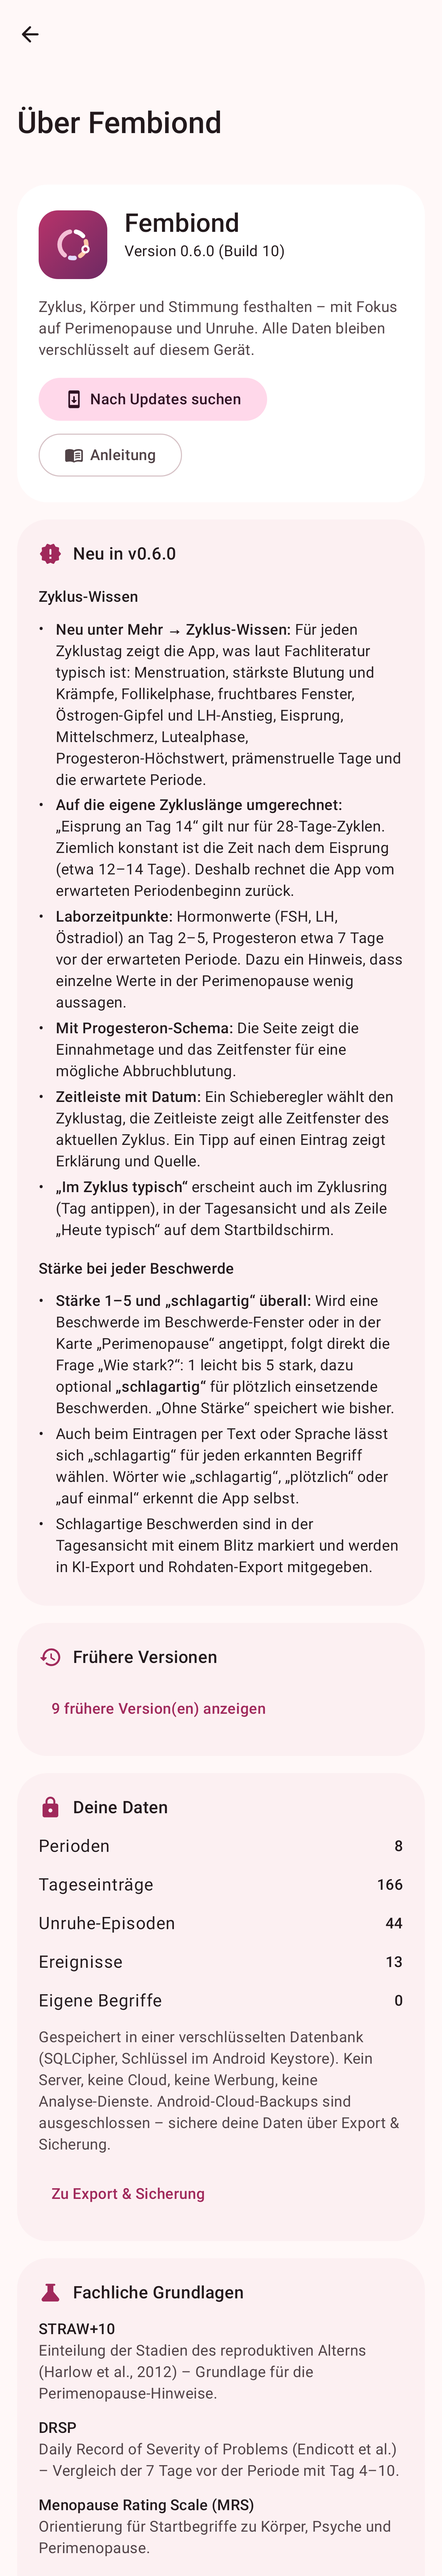
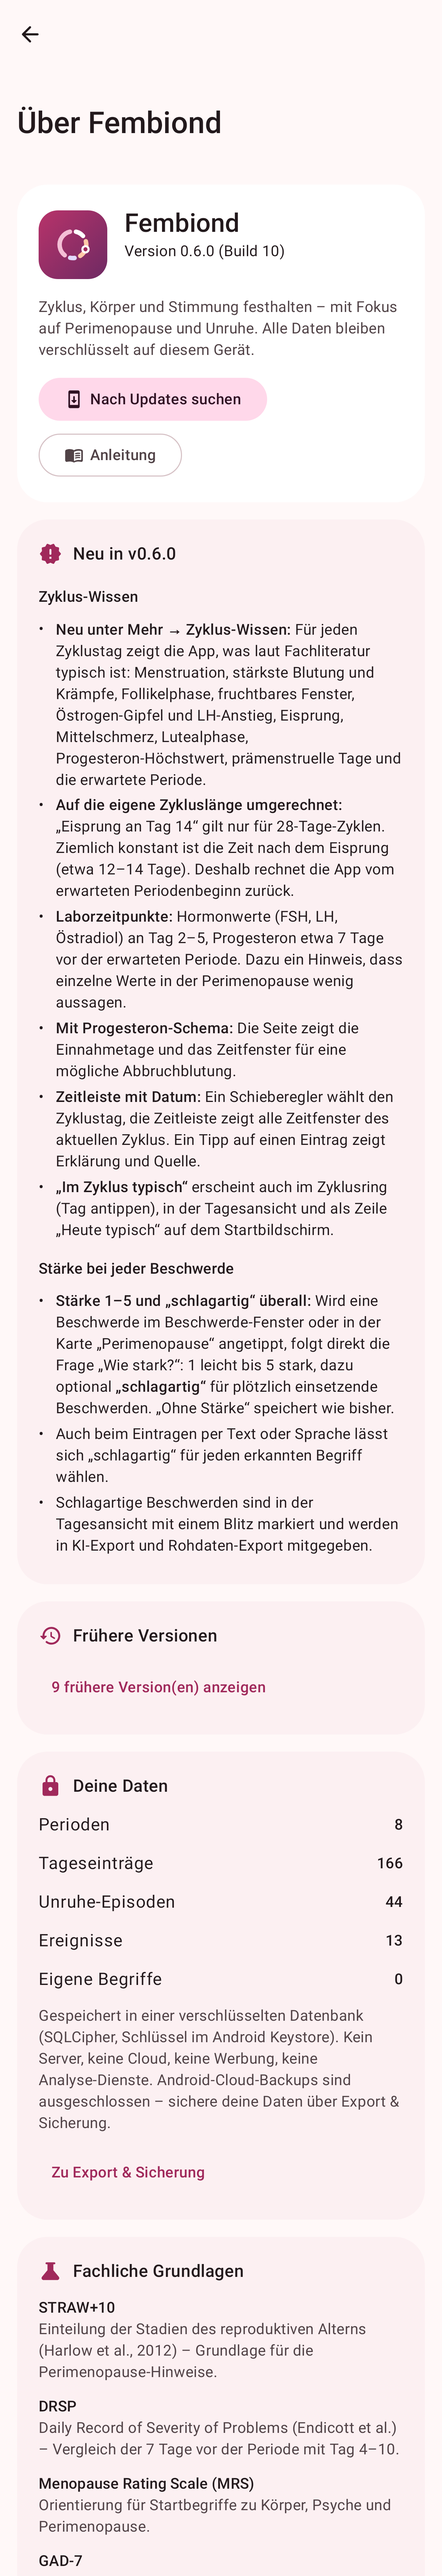
Spracheingabe: keine automatische Erkennung von „schlagartig“
Claude-Session: https://claude.ai/code/session_016ur4THD3drYkvcUc6fCqDM

diff --git a/app/src/main/java/de/fembiond/app/domain/TermParser.kt b/app/src/main/java/de/fembiond/app/domain/TermParser.kt
@@ -17,8 +17,6 @@ data class ParsedTerm(
     val intensity: Int?,
     val valence: Valence?,
     val matchedText: String,
-    /** Im selben Satzteil als „schlagartig“/„plötzlich“ beschrieben. */
-    val sudden: Boolean = false,
 )
 
 data class ParseResult(
@@ -88,16 +86,13 @@ class TermParser(vocabulary: List<VocabItem>) {
             val valence = if (h.item.category == Category.LIFE) {
                 valenceHint(folded, segOf, segment) ?: h.item.valence
             } else null
-            val sudden = folded.indices.any { k ->
-                segOf[k] == segment && (folded[k] in SUDDEN_WORDS || (folded[k] == "auf" && folded.getOrNull(k + 1) == "einmal"))
-            }
             val text = words.subList(h.start, h.end).joinToString(" ")
             val existing = result.indexOfFirst { it.label == h.item.label && it.category == h.item.category }
             if (existing >= 0) {
                 val e = result[existing]
-                result[existing] = e.copy(intensity = maxOfNullable(e.intensity, intensity), sudden = e.sudden || sudden)
+                result[existing] = e.copy(intensity = maxOfNullable(e.intensity, intensity))
             } else {
-                result += ParsedTerm(h.item.label, h.item.category, intensity, valence, text, sudden)
+                result += ParsedTerm(h.item.label, h.item.category, intensity, valence, text)
             }
         }
 
@@ -110,7 +105,7 @@ class TermParser(vocabulary: List<VocabItem>) {
         }
         for (k in words.indices) {
             val w = folded[k]
-            val isContent = !consumed[k] && w.length >= 4 && w !in STOP && w !in INTENSITY_WORDS && w !in SUDDEN_WORDS && w != "einmal" && w !in NUMBER_WORDS &&
+            val isContent = !consumed[k] && w.length >= 4 && w !in STOP && w !in INTENSITY_WORDS && w !in NUMBER_WORDS &&
                 w !in NEGATIONS && w.none { it.isDigit() }
             if (isContent && (run.isEmpty() || runSeg == segOf[k])) {
                 run += words[k]; runSeg = segOf[k]
@@ -192,8 +187,6 @@ class TermParser(vocabulary: List<VocabItem>) {
             Regex("[\\p{L}\\p{N}]+").findAll(s.lowercase()).map { it.value }.toList()
 
         /** Kleinschreibung, Umlaute vereinfachen – macht Tippfehler und Spracheingabe robuster. */
-        val SUDDEN_WORDS = setOf("schlagartig", "schlagartige", "schlagartiger", "plotzlich", "plotzliche", "plotzlicher", "abrupt", "abrupte", "unvermittelt")
-
         fun fold(s: String): String = s.lowercase()
             .replace("ä", "a").replace("ö", "o").replace("ü", "u").replace("ß", "ss")
 

diff --git a/app/src/main/java/de/fembiond/app/ui/screens/GuideScreen.kt b/app/src/main/java/de/fembiond/app/ui/screens/GuideScreen.kt
@@ -115,7 +115,7 @@ object Guide {
 - Tippe auf **Wie geht es dir gerade?** und schreibe oder sprich frei, z. B. „ziemlich müde, Kopfweh, innere Unruhe Stärke 3“.
 - Die App erkennt Begriffe automatisch und ordnet sie Kategorien zu – auch Umgangssprache („Kopfweh“), Tippfehler und Verneinungen („keine Kopfschmerzen“).
 - Wörter wie „leicht“, „ziemlich“, „extrem“ oder „Stärke drei“ setzen die **Intensität 1–5**. Du kannst sie unter „Erfasst – bitte prüfen“ anpassen.
-- Für plötzlich einsetzende Beschwerden gibt es **„schlagartig“**. Die App erkennt es auch selbst an Wörtern wie „schlagartig“, „plötzlich“ oder „auf einmal“.
+- Für plötzlich einsetzende Beschwerden gibt es **„schlagartig“** – bitte selbst antippen.
 - Bei Ein-Tipp-Beschwerden (Plus-Menü, Karte Perimenopause) fragt die App nach dem Antippen direkt „Wie stark?“. „Ohne Stärke“ speichert sofort.
 - **Nicht erkannte Wörter** antippen, um sie als eigenen Begriff zu speichern oder einem vorhandenen zuzuordnen. Die App merkt sich das.
 - Unter den Kategorien findest du Vorschläge als Chips – häufig und zuletzt Genutztes steht vorne.

diff --git a/app/src/main/java/de/fembiond/app/ui/screens/EntryScreen.kt b/app/src/main/java/de/fembiond/app/ui/screens/EntryScreen.kt
@@ -105,10 +105,10 @@ fun EntryScreen(vm: AppViewModel, data: AppData, nav: NavController, day: LocalD
             if (k in rejected) return@forEach
             val existing = selections[k]
             if (existing == null) {
-                selections[k] = Selection(t.label, t.category, t.intensity, t.valence, t.sudden)
+                selections[k] = Selection(t.label, t.category, t.intensity, t.valence)
                 autoKeys.add(k)
             } else if (k in autoKeys) {
-                selections[k] = existing.copy(intensity = t.intensity ?: existing.intensity, valence = t.valence ?: existing.valence, sudden = t.sudden || existing.sudden)
+                selections[k] = existing.copy(intensity = t.intensity ?: existing.intensity, valence = t.valence ?: existing.valence)
             }
         }
         unknown = result.unknown

diff --git a/app/src/test/java/de/fembiond/app/domain/TermParserTest.kt b/app/src/test/java/de/fembiond/app/domain/TermParserTest.kt
@@ -85,11 +85,4 @@ class TermParserTest {
         assertTrue(TermRanking.score(10, 1, false) > TermRanking.score(10, 120, false))
         assertTrue(TermRanking.score(5, 1, false) > TermRanking.score(0, null, true))
     }
-
-    @Test
-    fun detectsSuddenOnset() {
-        val r = parser.parse("Schlagartig starke Kopfschmerzen, außerdem müde")
-        assertTrue(r.terms.first { it.label == "Kopfschmerzen" }.sudden)
-        assertFalse(r.terms.first { it.label == "müde" }.sudden)
-    }
 }

diff --git a/app/src/main/assets/releases/v0.6.0.md b/app/src/main/assets/releases/v0.6.0.md
@@ -10,5 +10,5 @@
 ## Stärke bei jeder Beschwerde
 
 - **Stärke 1–5 und „schlagartig“ überall:** Wird eine Beschwerde im Beschwerde-Fenster oder in der Karte „Perimenopause“ angetippt, folgt direkt die Frage „Wie stark?“: 1 leicht bis 5 stark, dazu optional **„schlagartig“** für plötzlich einsetzende Beschwerden. „Ohne Stärke“ speichert wie bisher.
-- Auch beim Eintragen per Text oder Sprache lässt sich „schlagartig“ für jeden erkannten Begriff wählen. Wörter wie „schlagartig“, „plötzlich“ oder „auf einmal“ erkennt die App selbst.
+- Auch beim Eintragen per Text oder Sprache lässt sich „schlagartig“ für jeden erkannten Begriff wählen.
 - Schlagartige Beschwerden sind in der Tagesansicht mit einem Blitz markiert und werden in KI-Export und Rohdaten-Export mitgegeben.
